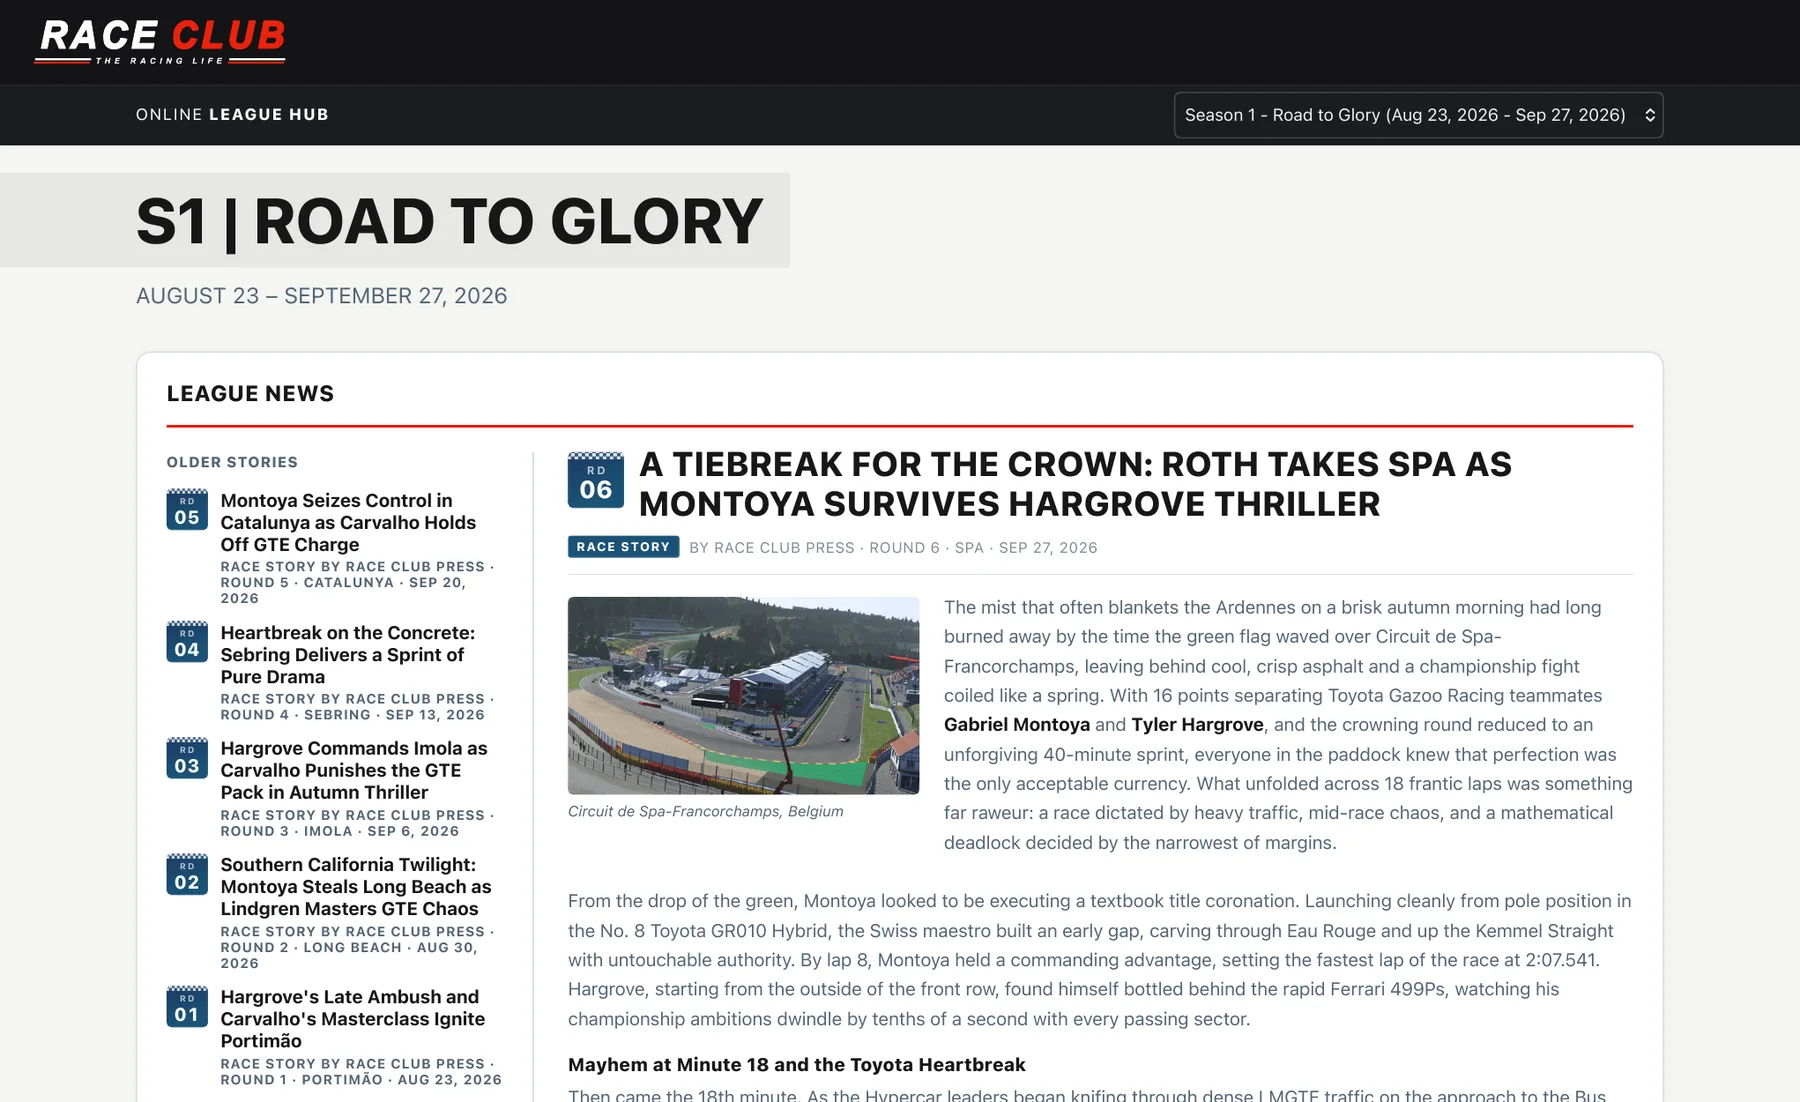
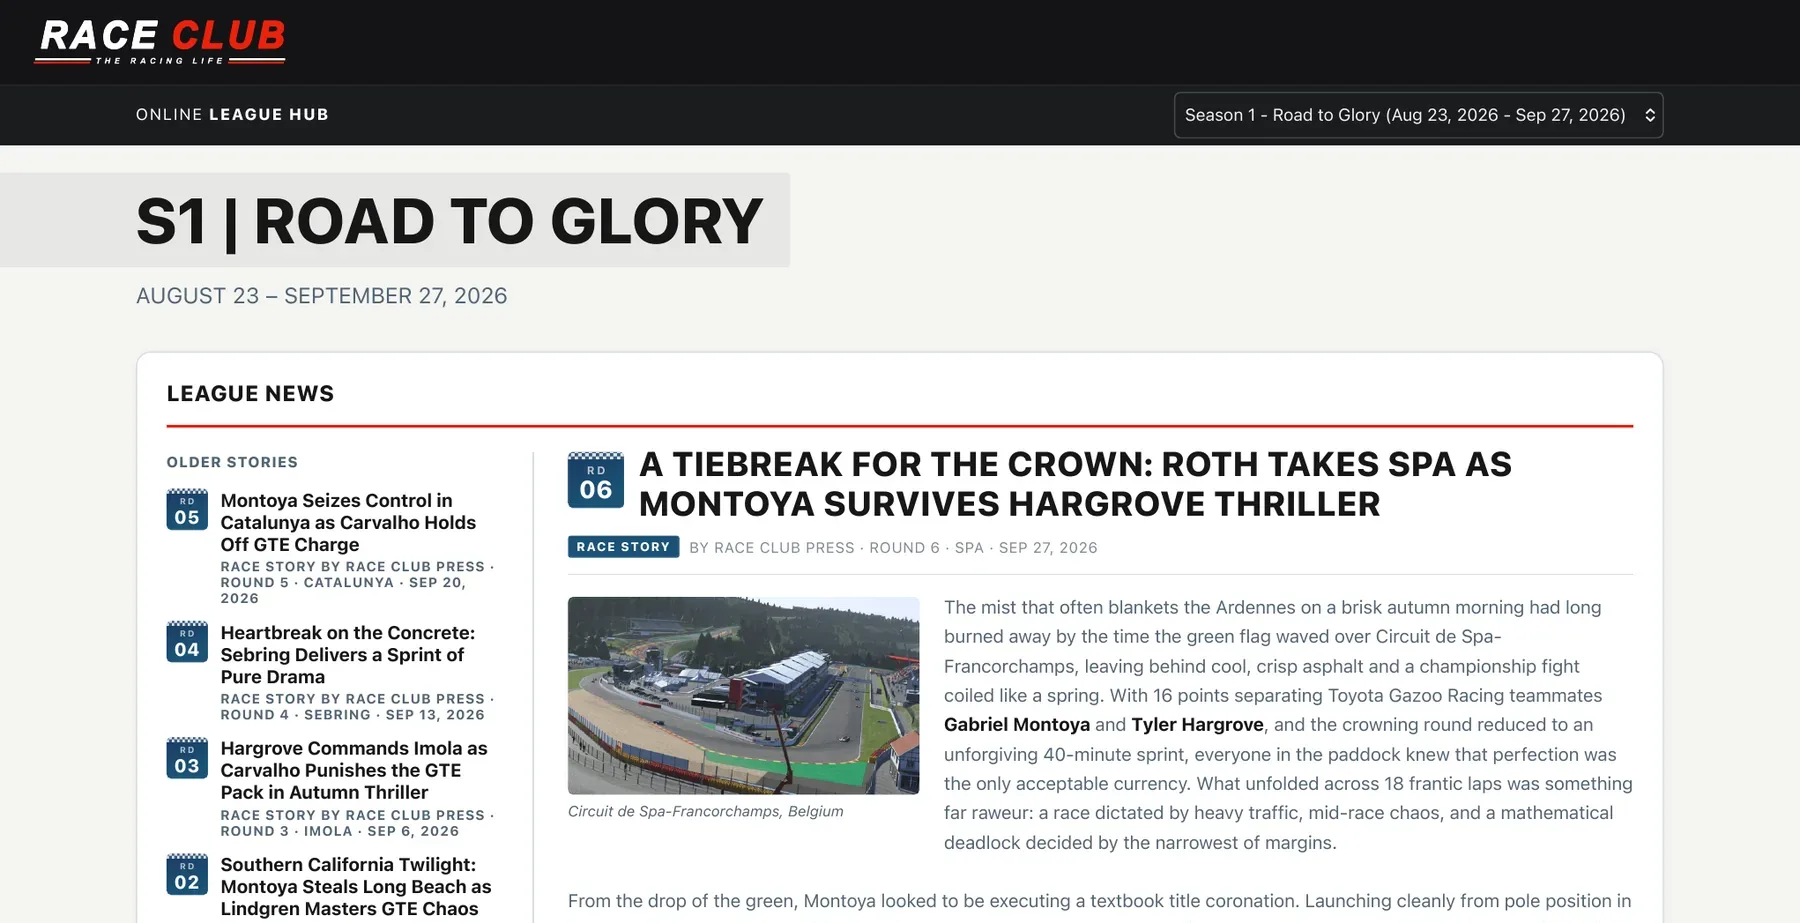
Index: League Hub tile fades to Highlights and Manufacturers' Standings; drop qualifying shot from Race Recaps (0.10.114)
Claude-Session: https://claude.ai/code/session_01Bj2X1fWtjx3RscNPghHY9p

Changed region(s): [[0.0622, 0.3034, 0.9022, 1.0], [0.0, 0.0, 1.0, 0.273]]

diff --git a/index.html b/index.html
@@ -16,17 +16,17 @@
 <link rel="icon" href="favicon.ico" sizes="any">
 <link rel="icon" type="image/png" sizes="32x32" href="assets/images/favicon-32.png">
 <link rel="apple-touch-icon" href="assets/images/apple-touch-icon.png">
-<link rel="stylesheet" href="css/style.css?v=0.10.113">
-<script src="js/version.js?v=0.10.113"></script>
-<script src="js/footer-stick.js?v=0.10.113" defer></script>
-<script src="js/img-loader.js?v=0.10.113"></script>
-<script src="js/api.js?v=0.10.113"></script>
-<script src="js/auth.js?v=0.10.113"></script>
-<script src="js/header.js?v=0.10.113"></script>
+<link rel="stylesheet" href="css/style.css?v=0.10.114">
+<script src="js/version.js?v=0.10.114"></script>
+<script src="js/footer-stick.js?v=0.10.114" defer></script>
+<script src="js/img-loader.js?v=0.10.114"></script>
+<script src="js/api.js?v=0.10.114"></script>
+<script src="js/auth.js?v=0.10.114"></script>
+<script src="js/header.js?v=0.10.114"></script>
 <!-- reference-data.js + edit-profile.js -- let the header's Edit Profile menu item open its
      popup in place on this page instead of navigating to Account.html first. -->
-<script src="js/reference-data.js?v=0.10.113"></script>
-<script src="js/edit-profile.js?v=0.10.113"></script>
+<script src="js/reference-data.js?v=0.10.114"></script>
+<script src="js/edit-profile.js?v=0.10.114"></script>
 </head>
 <body>
 
@@ -173,11 +173,11 @@ var RC_DATA_BASE = 'https://stenbough-cmd.github.io/race-club-data/website/data/
       <div class="rc-eyebrow">See Inside</div>
       <h2>Take A Look Inside Race Club</h2>
       <p class="rc-landing-tagline">Here is what you get when you join: a league hub that follows every race, a profile for every driver, and a dashboard that runs your season.</p>
-      <div class="rc-tilt-row rc-tilt-left">
+      <div class="rc-tilt-row rc-tilt-multi rc-tilt-left">
         <div class="rc-tilt-scene">
           <div class="rc-browser rc-tilt-browser">
             <div class="rc-browser-bar" aria-hidden="true"><i></i><i></i><i></i><span>Online League Hub</span></div>
-            <div class="rc-browser-stage"><img class="rc-inside-img rc-inside-img-on" src="assets/images/showcase/league-hub.webp" width="1800" height="1102" alt="The Race Club League Hub: league news with an AI-written race story, older stories, and the season's standings." decoding="async"></div>
+            <div class="rc-browser-stage" style="aspect-ratio: 1800 / 923;"><img data-label="Online League Hub" class="rc-inside-img rc-inside-img-on" src="assets/images/showcase/league-hub.webp" width="1800" height="923" alt="The Race Club League Hub: league news with an AI-written race story, older stories, and the season's standings." decoding="async"><img class="rc-inside-img" src="assets/images/showcase/hub-highlights.webp" width="1800" height="923" alt="League Hub highlights: class podiums plus closing-in, fallen-favorite, photo-finish and streak cards from the latest round." data-label="Highlights" loading="lazy" decoding="async"><img class="rc-inside-img" src="assets/images/showcase/hub-standings.webp" width="1800" height="923" alt="The Manufacturers' Standings podium and full table for a class." data-label="Manufacturers' Standings" loading="lazy" decoding="async"></div>
           </div>
         </div>
         <div class="rc-tilt-card">
@@ -216,7 +216,7 @@ var RC_DATA_BASE = 'https://stenbough-cmd.github.io/race-club-data/website/data/
         <div class="rc-tilt-scene">
           <div class="rc-browser rc-tilt-browser">
             <div class="rc-browser-bar" aria-hidden="true"><i></i><i></i><i></i><span>Race Recap</span></div>
-            <div class="rc-browser-stage" style="aspect-ratio: 1800 / 1059;"><img data-label="Race Recap: Driver Report" class="rc-inside-img rc-inside-img-on" src="assets/images/showcase/race-recap.webp" width="1800" height="1059" alt="A Race Recap driver report: start-to-finish, best lap, laps, pit stops and contacts, plus a lap-by-lap race position chart." loading="lazy" decoding="async"><img class="rc-inside-img" src="assets/images/showcase/recap-results.webp" width="1800" height="1059" alt="Race Results: the full class classification with gaps, average speed, best lap and points." data-label="Race Results" loading="lazy" decoding="async"><img class="rc-inside-img" src="assets/images/showcase/recap-qualifying.webp" width="1800" height="1059" alt="Qualifying Results: best lap and all three sector times for every driver." data-label="Qualifying Results" loading="lazy" decoding="async"><img class="rc-inside-img" src="assets/images/showcase/recap-report.webp" width="1800" height="1059" alt="The Race Report: a lap-by-lap account of contacts and position changes." data-label="Race Report" loading="lazy" decoding="async"></div>
+            <div class="rc-browser-stage" style="aspect-ratio: 1800 / 1059;"><img data-label="Race Recap: Driver Report" class="rc-inside-img rc-inside-img-on" src="assets/images/showcase/race-recap.webp" width="1800" height="1059" alt="A Race Recap driver report: start-to-finish, best lap, laps, pit stops and contacts, plus a lap-by-lap race position chart." loading="lazy" decoding="async"><img class="rc-inside-img" src="assets/images/showcase/recap-results.webp" width="1800" height="1059" alt="Race Results: the full class classification with gaps, average speed, best lap and points." data-label="Race Results" loading="lazy" decoding="async"><img class="rc-inside-img" src="assets/images/showcase/recap-report.webp" width="1800" height="1059" alt="The Race Report: a lap-by-lap account of contacts and position changes." data-label="Race Report" loading="lazy" decoding="async"></div>
           </div>
         </div>
         <div class="rc-tilt-card">
@@ -863,6 +863,6 @@ var RC_DATA_BASE = 'https://stenbough-cmd.github.io/race-club-data/website/data/
 
 </div>
 
-<script src="js/index-showcase.js?v=0.10.113"></script>
+<script src="js/index-showcase.js?v=0.10.114"></script>
 </body>
 </html>

diff --git a/league.html b/league.html
@@ -16,10 +16,10 @@
 <link rel="icon" href="favicon.ico" sizes="any">
 <link rel="icon" type="image/png" sizes="32x32" href="assets/images/favicon-32.png">
 <link rel="apple-touch-icon" href="assets/images/apple-touch-icon.png">
-<link rel="stylesheet" href="css/style.css?v=0.10.113">
-<link rel="stylesheet" href="css/league.css?v=0.10.113">
-<link rel="stylesheet" href="css/driver-report.css?v=0.10.113">
-<link rel="stylesheet" href="css/league-light.css?v=0.10.113">
+<link rel="stylesheet" href="css/style.css?v=0.10.114">
+<link rel="stylesheet" href="css/league.css?v=0.10.114">
+<link rel="stylesheet" href="css/driver-report.css?v=0.10.114">
+<link rel="stylesheet" href="css/league-light.css?v=0.10.114">
 <!-- If a saved copy of the hub exists in this browser, js/league.js draws it immediately, so skip
      the loading overlay entirely (it only shows on a first-ever visit or after storage is cleared). -->
 <script>
@@ -28,19 +28,19 @@ document.documentElement.classList.add('rc-pending');
 window.rcRevealPage = function () { document.documentElement.classList.remove('rc-pending'); };
 setTimeout(window.rcRevealPage, 25000);
 </script>
-<script src="js/version.js?v=0.10.113"></script>
-<script src="js/footer-stick.js?v=0.10.113" defer></script>
-<script src="js/img-loader.js?v=0.10.113"></script>
-<script src="js/api.js?v=0.10.113"></script>
-<script src="js/auth.js?v=0.10.113"></script>
-<script src="js/header.js?v=0.10.113"></script>
-<script src="js/reference-data.js?v=0.10.113"></script>
+<script src="js/version.js?v=0.10.114"></script>
+<script src="js/footer-stick.js?v=0.10.114" defer></script>
+<script src="js/img-loader.js?v=0.10.114"></script>
+<script src="js/api.js?v=0.10.114"></script>
+<script src="js/auth.js?v=0.10.114"></script>
+<script src="js/header.js?v=0.10.114"></script>
+<script src="js/reference-data.js?v=0.10.114"></script>
 <!-- edit-profile.js -- lets the header's Edit Profile menu item open its popup in place on this
      page (dark-themed) instead of navigating to Account.html first. -->
-<script src="js/edit-profile.js?v=0.10.113"></script>
+<script src="js/edit-profile.js?v=0.10.114"></script>
 <!-- rulebook-content.js -- RULEBOOK_SECTIONS, the same source Account.html's own Rules and
      Regulations card reads from. -->
-<script src="js/rulebook-content.js?v=0.10.113"></script>
+<script src="js/rulebook-content.js?v=0.10.114"></script>
 </head>
 <body class="rc-league-page rcl-light rcl-hub">
 
@@ -129,8 +129,8 @@ setTimeout(window.rcRevealPage, 25000);
 </div>
 <script>rcWireFooterLegalLink();</script>
 
-<script src="js/driver-report.js?v=0.10.113"></script>
-<script src="js/story-fit.js?v=0.10.113"></script>
-<script src="js/league.js?v=0.10.113"></script>
+<script src="js/driver-report.js?v=0.10.114"></script>
+<script src="js/story-fit.js?v=0.10.114"></script>
+<script src="js/league.js?v=0.10.114"></script>
 </body>
 </html>

diff --git a/championship.html b/championship.html
@@ -16,24 +16,24 @@
 <link rel="icon" href="favicon.ico" sizes="any">
 <link rel="icon" type="image/png" sizes="32x32" href="assets/images/favicon-32.png">
 <link rel="apple-touch-icon" href="assets/images/apple-touch-icon.png">
-<link rel="stylesheet" href="css/style.css?v=0.10.113">
-<link rel="stylesheet" href="css/league.css?v=0.10.113">
-<link rel="stylesheet" href="css/driver-report.css?v=0.10.113">
-<link rel="stylesheet" href="css/championship.css?v=0.10.113">
+<link rel="stylesheet" href="css/style.css?v=0.10.114">
+<link rel="stylesheet" href="css/league.css?v=0.10.114">
+<link rel="stylesheet" href="css/driver-report.css?v=0.10.114">
+<link rel="stylesheet" href="css/championship.css?v=0.10.114">
 <script>
 /* Plain empty page until the data is ready (css/league.css, html.rc-pending). Always lifted after 25 s so a failure can never leave a blank page. */
 document.documentElement.classList.add('rc-pending');
 window.rcRevealPage = function () { document.documentElement.classList.remove('rc-pending'); };
 setTimeout(window.rcRevealPage, 25000);
 </script>
-<script src="js/version.js?v=0.10.113"></script>
-<script src="js/footer-stick.js?v=0.10.113" defer></script>
-<script src="js/img-loader.js?v=0.10.113"></script>
-<script src="js/api.js?v=0.10.113"></script>
-<script src="js/auth.js?v=0.10.113"></script>
-<script src="js/header.js?v=0.10.113"></script>
-<script src="js/reference-data.js?v=0.10.113"></script>
-<script src="js/edit-profile.js?v=0.10.113"></script>
+<script src="js/version.js?v=0.10.114"></script>
+<script src="js/footer-stick.js?v=0.10.114" defer></script>
+<script src="js/img-loader.js?v=0.10.114"></script>
+<script src="js/api.js?v=0.10.114"></script>
+<script src="js/auth.js?v=0.10.114"></script>
+<script src="js/header.js?v=0.10.114"></script>
+<script src="js/reference-data.js?v=0.10.114"></script>
+<script src="js/edit-profile.js?v=0.10.114"></script>
 </head>
 <!-- rc-league-page gives this page the League Hub's exact layout; rcc-page (css/championship.css)
      swaps its colors to the light member-page palette. -->
@@ -105,10 +105,10 @@ setTimeout(window.rcRevealPage, 25000);
 </div>
 <script>rcWireFooterLegalLink();</script>
 
-<script src="js/championship-help.js?v=0.10.113"></script>
-<script src="js/car-picker.js?v=0.10.113"></script>
-<script src="js/story-fit.js?v=0.10.113"></script>
-<script src="js/championship.js?v=0.10.113"></script>
-<script src="js/driver-report.js?v=0.10.113"></script>
+<script src="js/championship-help.js?v=0.10.114"></script>
+<script src="js/car-picker.js?v=0.10.114"></script>
+<script src="js/story-fit.js?v=0.10.114"></script>
+<script src="js/championship.js?v=0.10.114"></script>
+<script src="js/driver-report.js?v=0.10.114"></script>
 </body>
 </html>

diff --git a/profile.html b/profile.html
@@ -16,19 +16,19 @@
 <link rel="icon" href="favicon.ico" sizes="any">
 <link rel="icon" type="image/png" sizes="32x32" href="assets/images/favicon-32.png">
 <link rel="apple-touch-icon" href="assets/images/apple-touch-icon.png">
-<link rel="stylesheet" href="css/style.css?v=0.10.113">
-<link rel="stylesheet" href="css/league.css?v=0.10.113">
-<link rel="stylesheet" href="css/profile.css?v=0.10.113">
-<link rel="stylesheet" href="css/driver-report.css?v=0.10.113">
-<script src="js/version.js?v=0.10.113"></script>
-<script src="js/footer-stick.js?v=0.10.113" defer></script>
-<script src="js/img-loader.js?v=0.10.113"></script>
-<script src="js/api.js?v=0.10.113"></script>
-<script src="js/auth.js?v=0.10.113"></script>
-<script src="js/header.js?v=0.10.113"></script>
-<script src="js/reference-data.js?v=0.10.113"></script>
-<script src="js/edit-profile.js?v=0.10.113"></script>
-<script src="js/rulebook-content.js?v=0.10.113"></script>
+<link rel="stylesheet" href="css/style.css?v=0.10.114">
+<link rel="stylesheet" href="css/league.css?v=0.10.114">
+<link rel="stylesheet" href="css/profile.css?v=0.10.114">
+<link rel="stylesheet" href="css/driver-report.css?v=0.10.114">
+<script src="js/version.js?v=0.10.114"></script>
+<script src="js/footer-stick.js?v=0.10.114" defer></script>
+<script src="js/img-loader.js?v=0.10.114"></script>
+<script src="js/api.js?v=0.10.114"></script>
+<script src="js/auth.js?v=0.10.114"></script>
+<script src="js/header.js?v=0.10.114"></script>
+<script src="js/reference-data.js?v=0.10.114"></script>
+<script src="js/edit-profile.js?v=0.10.114"></script>
+<script src="js/rulebook-content.js?v=0.10.114"></script>
 </head>
 <body class="rc-league-page rcc-page">
 <div id="rc-header"></div>
@@ -167,8 +167,8 @@
 </footer>
 <script>rcWireFooterLegalLink();</script>
 
-<script src="js/driver-report.js?v=0.10.113"></script>
-<script src="js/profile.js?v=0.10.113"></script>
-<script src="js/profile-page.js?v=0.10.113"></script>
+<script src="js/driver-report.js?v=0.10.114"></script>
+<script src="js/profile.js?v=0.10.114"></script>
+<script src="js/profile-page.js?v=0.10.114"></script>
 </body>
 </html>

diff --git a/Account.html b/Account.html
@@ -8,15 +8,15 @@
 <link rel="icon" href="favicon.ico" sizes="any">
 <link rel="icon" type="image/png" sizes="32x32" href="assets/images/favicon-32.png">
 <link rel="apple-touch-icon" href="assets/images/apple-touch-icon.png">
-<link rel="stylesheet" href="css/style.css?v=0.10.113">
-<link rel="stylesheet" href="css/helmet.css?v=0.10.113">
-<script src="js/version.js?v=0.10.113"></script>
-<script src="js/footer-stick.js?v=0.10.113" defer></script>
-<script src="js/img-loader.js?v=0.10.113"></script>
-<script src="js/api.js?v=0.10.113"></script>
-<script src="js/auth.js?v=0.10.113"></script>
-<script src="js/reference-data.js?v=0.10.113"></script>
-<script src="js/header.js?v=0.10.113"></script>
+<link rel="stylesheet" href="css/style.css?v=0.10.114">
+<link rel="stylesheet" href="css/helmet.css?v=0.10.114">
+<script src="js/version.js?v=0.10.114"></script>
+<script src="js/footer-stick.js?v=0.10.114" defer></script>
+<script src="js/img-loader.js?v=0.10.114"></script>
+<script src="js/api.js?v=0.10.114"></script>
+<script src="js/auth.js?v=0.10.114"></script>
+<script src="js/reference-data.js?v=0.10.114"></script>
+<script src="js/header.js?v=0.10.114"></script>
 </head>
 <body class="rc-account-page">
 
@@ -80,10 +80,10 @@
 <script>rcWireFooterLegalLink();</script>
 
 <!-- These load after the page is drawn (defer), in this order. The helmet designer files (js/helmet.js, js/helmet-editor.js) load only when an Admin opens the designer. -->
-<script src="js/rulebook-content.js?v=0.10.113" defer></script>
-<script src="js/championship-dashboard.js?v=0.10.113" defer></script>
-<script src="js/edit-profile.js?v=0.10.113" defer></script>
-<script src="js/car-picker.js?v=0.10.113" defer></script>
-<script src="js/account.js?v=0.10.113" defer></script>
+<script src="js/rulebook-content.js?v=0.10.114" defer></script>
+<script src="js/championship-dashboard.js?v=0.10.114" defer></script>
+<script src="js/edit-profile.js?v=0.10.114" defer></script>
+<script src="js/car-picker.js?v=0.10.114" defer></script>
+<script src="js/account.js?v=0.10.114" defer></script>
 </body>
 </html>

diff --git a/register.html b/register.html
@@ -16,14 +16,14 @@
 <link rel="icon" href="favicon.ico" sizes="any">
 <link rel="icon" type="image/png" sizes="32x32" href="assets/images/favicon-32.png">
 <link rel="apple-touch-icon" href="assets/images/apple-touch-icon.png">
-<link rel="stylesheet" href="css/style.css?v=0.10.113">
-<script src="js/version.js?v=0.10.113"></script>
-<script src="js/footer-stick.js?v=0.10.113" defer></script>
-<script src="js/img-loader.js?v=0.10.113"></script>
-<script src="js/api.js?v=0.10.113"></script>
-<script src="js/auth.js?v=0.10.113"></script>
-<script src="js/reference-data.js?v=0.10.113"></script>
-<script src="js/header.js?v=0.10.113"></script>
+<link rel="stylesheet" href="css/style.css?v=0.10.114">
+<script src="js/version.js?v=0.10.114"></script>
+<script src="js/footer-stick.js?v=0.10.114" defer></script>
+<script src="js/img-loader.js?v=0.10.114"></script>
+<script src="js/api.js?v=0.10.114"></script>
+<script src="js/auth.js?v=0.10.114"></script>
+<script src="js/reference-data.js?v=0.10.114"></script>
+<script src="js/header.js?v=0.10.114"></script>
 </head>
 <body>
 <div id="rc-header"></div>

diff --git a/login.html b/login.html
@@ -16,13 +16,13 @@
 <link rel="icon" href="favicon.ico" sizes="any">
 <link rel="icon" type="image/png" sizes="32x32" href="assets/images/favicon-32.png">
 <link rel="apple-touch-icon" href="assets/images/apple-touch-icon.png">
-<link rel="stylesheet" href="css/style.css?v=0.10.113">
-<script src="js/version.js?v=0.10.113"></script>
-<script src="js/footer-stick.js?v=0.10.113" defer></script>
-<script src="js/img-loader.js?v=0.10.113"></script>
-<script src="js/api.js?v=0.10.113"></script>
-<script src="js/auth.js?v=0.10.113"></script>
-<script src="js/header.js?v=0.10.113"></script>
+<link rel="stylesheet" href="css/style.css?v=0.10.114">
+<script src="js/version.js?v=0.10.114"></script>
+<script src="js/footer-stick.js?v=0.10.114" defer></script>
+<script src="js/img-loader.js?v=0.10.114"></script>
+<script src="js/api.js?v=0.10.114"></script>
+<script src="js/auth.js?v=0.10.114"></script>
+<script src="js/header.js?v=0.10.114"></script>
 </head>
 <body>
 <div id="rc-header"></div>

diff --git a/reset-password.html b/reset-password.html
@@ -8,13 +8,13 @@
 <link rel="icon" href="favicon.ico" sizes="any">
 <link rel="icon" type="image/png" sizes="32x32" href="assets/images/favicon-32.png">
 <link rel="apple-touch-icon" href="assets/images/apple-touch-icon.png">
-<link rel="stylesheet" href="css/style.css?v=0.10.113">
-<script src="js/version.js?v=0.10.113"></script>
-<script src="js/footer-stick.js?v=0.10.113" defer></script>
-<script src="js/img-loader.js?v=0.10.113"></script>
-<script src="js/api.js?v=0.10.113"></script>
-<script src="js/auth.js?v=0.10.113"></script>
-<script src="js/header.js?v=0.10.113"></script>
+<link rel="stylesheet" href="css/style.css?v=0.10.114">
+<script src="js/version.js?v=0.10.114"></script>
+<script src="js/footer-stick.js?v=0.10.114" defer></script>
+<script src="js/img-loader.js?v=0.10.114"></script>
+<script src="js/api.js?v=0.10.114"></script>
+<script src="js/auth.js?v=0.10.114"></script>
+<script src="js/header.js?v=0.10.114"></script>
 </head>
 <body>
 <div id="rc-header"></div>

diff --git a/verify.html b/verify.html
@@ -8,13 +8,13 @@
 <link rel="icon" href="favicon.ico" sizes="any">
 <link rel="icon" type="image/png" sizes="32x32" href="assets/images/favicon-32.png">
 <link rel="apple-touch-icon" href="assets/images/apple-touch-icon.png">
-<link rel="stylesheet" href="css/style.css?v=0.10.113">
-<script src="js/version.js?v=0.10.113"></script>
-<script src="js/footer-stick.js?v=0.10.113" defer></script>
-<script src="js/img-loader.js?v=0.10.113"></script>
-<script src="js/api.js?v=0.10.113"></script>
-<script src="js/auth.js?v=0.10.113"></script>
-<script src="js/header.js?v=0.10.113"></script>
+<link rel="stylesheet" href="css/style.css?v=0.10.114">
+<script src="js/version.js?v=0.10.114"></script>
+<script src="js/footer-stick.js?v=0.10.114" defer></script>
+<script src="js/img-loader.js?v=0.10.114"></script>
+<script src="js/api.js?v=0.10.114"></script>
+<script src="js/auth.js?v=0.10.114"></script>
+<script src="js/header.js?v=0.10.114"></script>
 </head>
 <body>
 <div id="rc-header"></div>

diff --git a/js/version.js b/js/version.js
@@ -4,7 +4,7 @@
 // Do NOT edit by hand: run  node tools/bump-version.js 0.9.1  from the site folder, which changes this number
 // AND the "?v=" on every <script>/<link> tag in every .html file in one go.
 // Numbering rule (Matt, 2026-11-03): the site is not ready for release, so after 0.9.99 the next version is 0.10.0 (then 0.10.1 ...), not 1.0.
-var RC_VERSION = '0.10.113';
+var RC_VERSION = '0.10.114';
 // rcAsset('js/helmet.js') -> 'js/helmet.js?v=0.9.0'. Used by scripts that load other files on demand.
 function rcAsset(path) { return path + '?v=' + RC_VERSION; }
 
